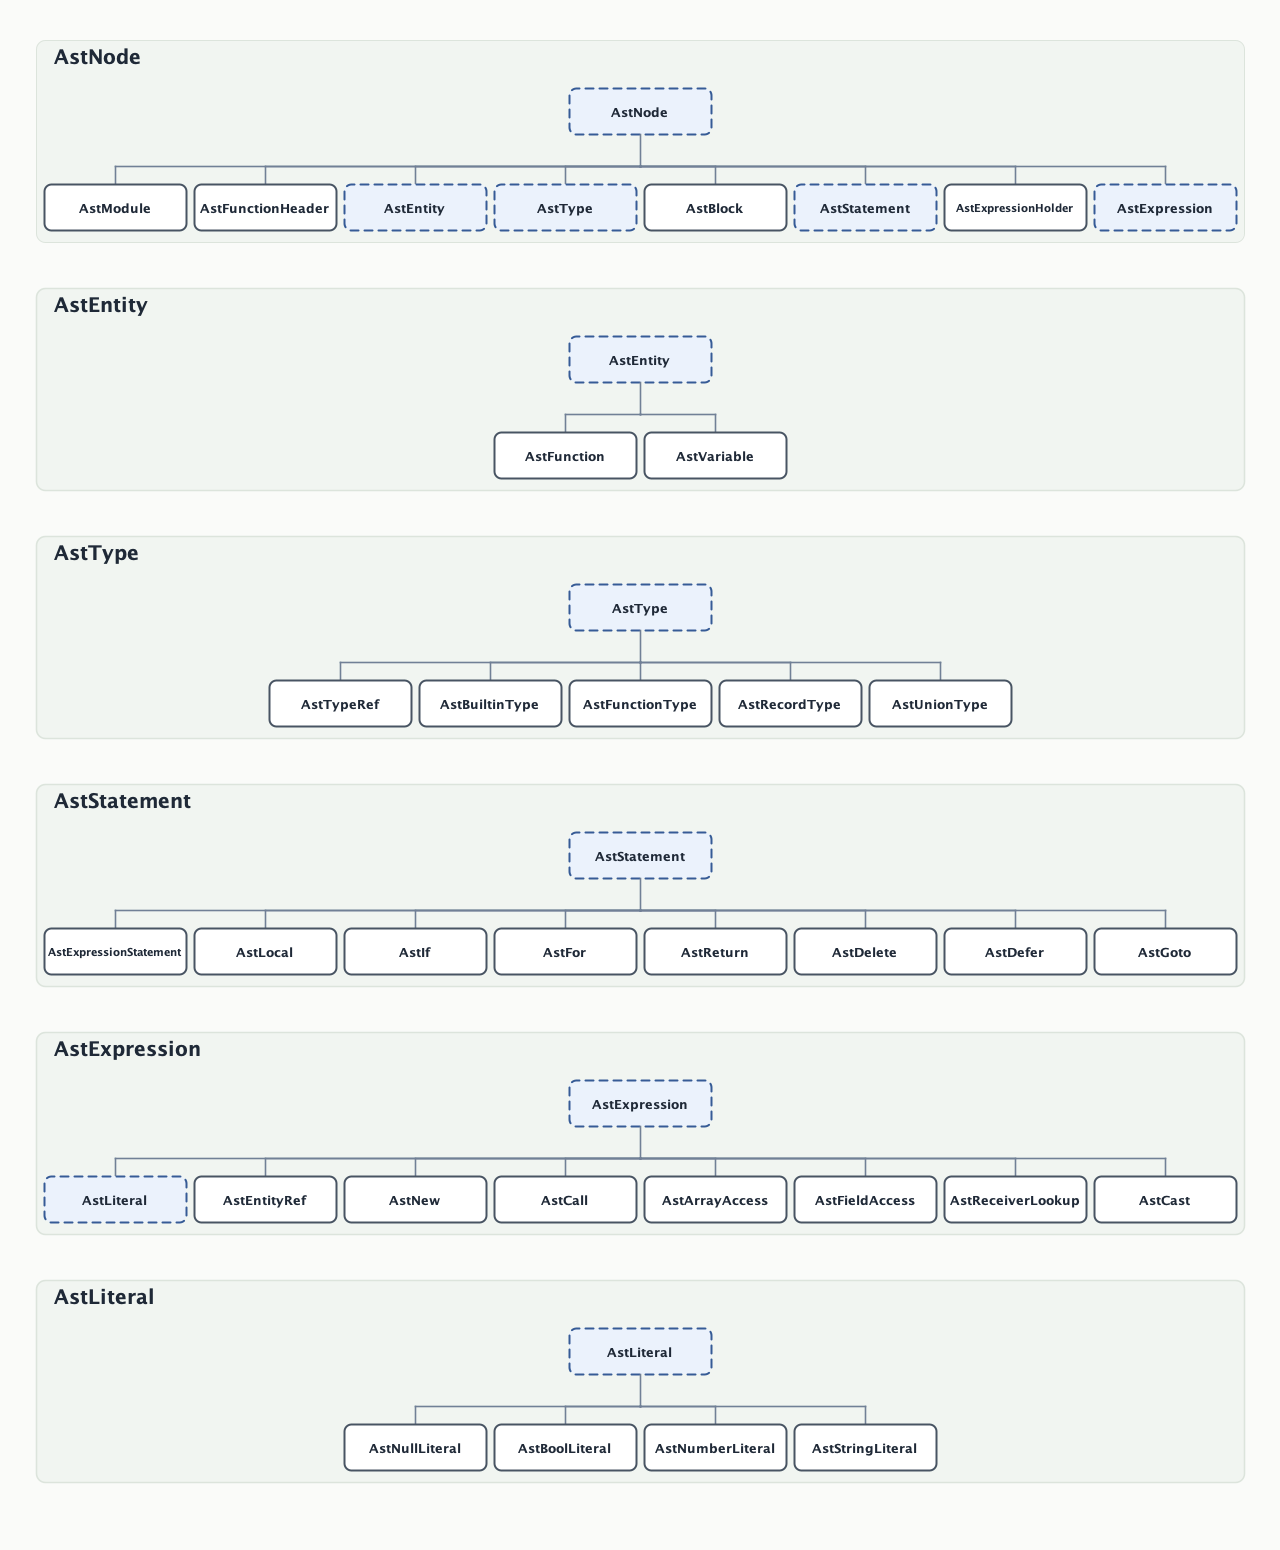
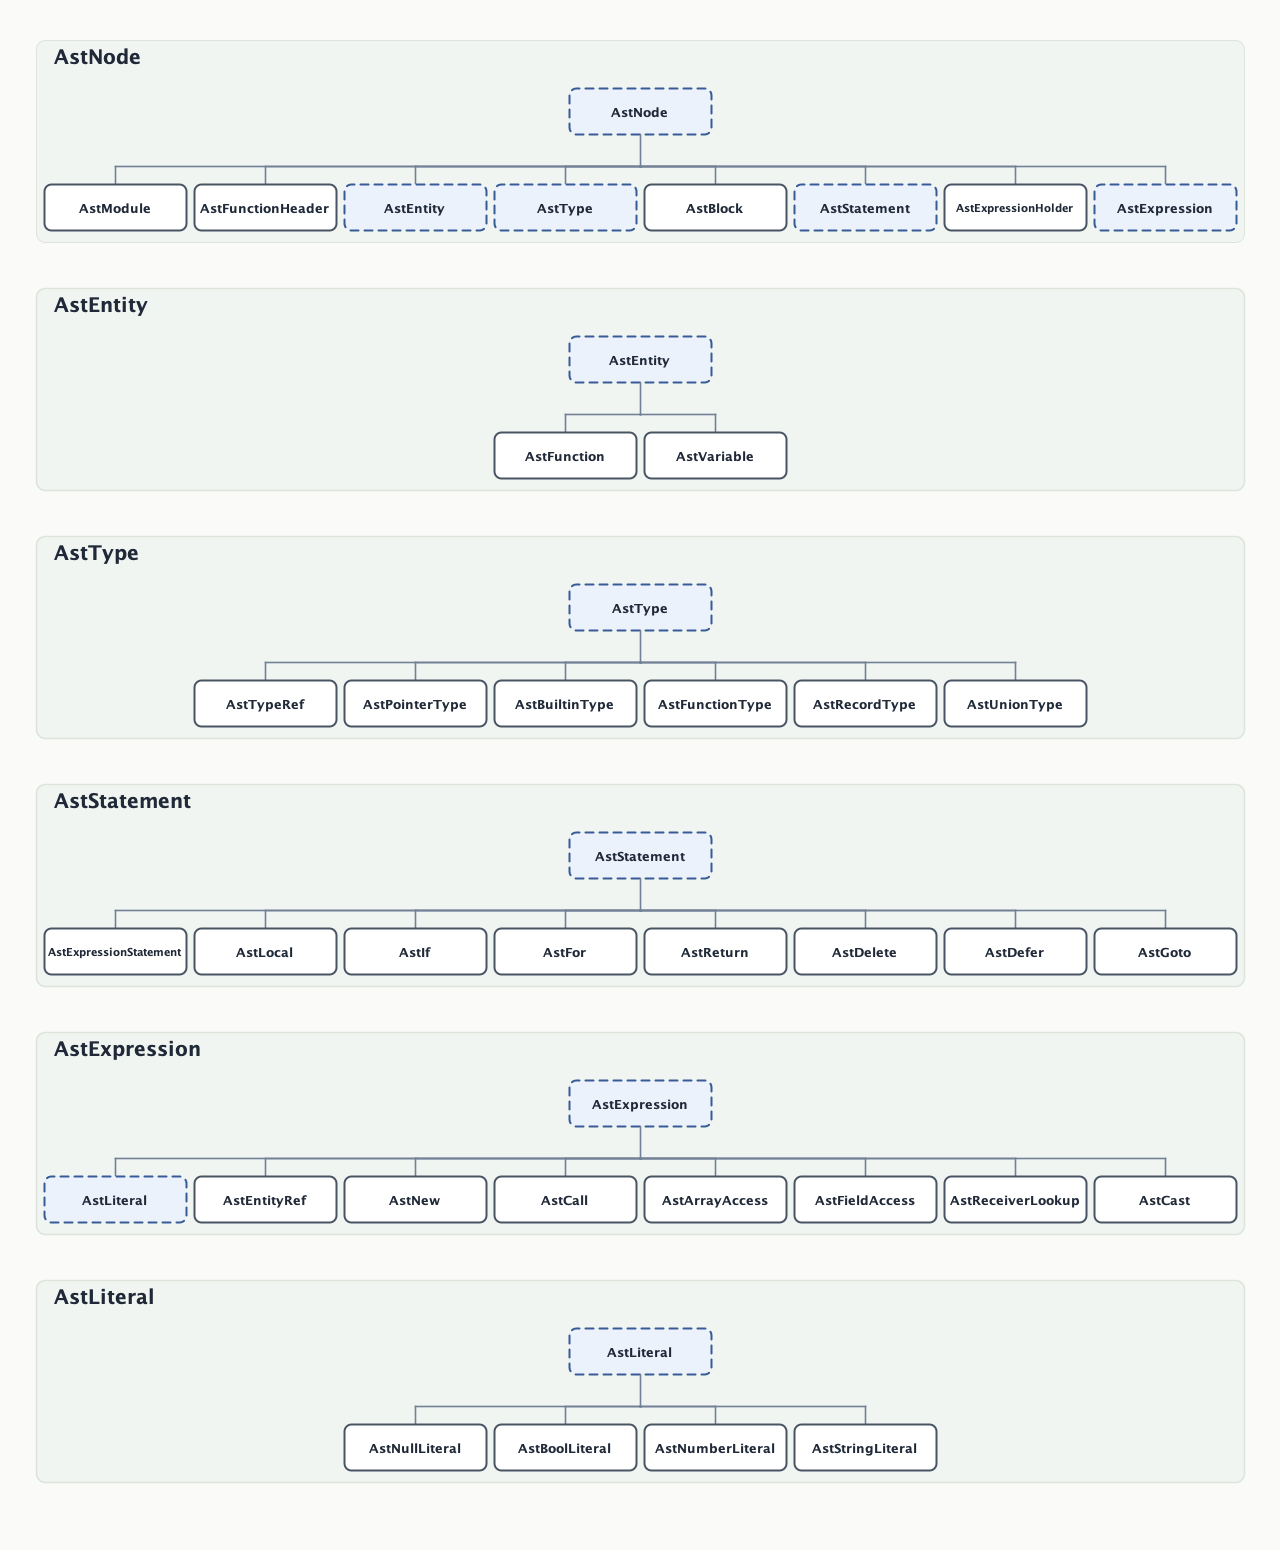
Add AstPointerType

Changed region(s): [[0.1875, 0.4335, 0.8438, 0.4645]]

diff --git a/src/main/java/com/github/idemura/cimple/compiler/ast/AstPointerType.java b/src/main/java/com/github/idemura/cimple/compiler/ast/AstPointerType.java
@@ -1,0 +1,46 @@
+package com.github.idemura.cimple.compiler.ast;
+
+import com.github.idemura.cimple.compiler.Identifier;
+
+public final class AstPointerType extends AstType {
+  private AstType baseType;
+
+  public AstPointerType(AstType baseType) {
+    this.baseType = baseType;
+  }
+
+  @Override
+  public void accept(AstVisitor visitor) {
+    visitor.visit(this);
+  }
+
+  @Override
+  public int hashCode() {
+    return baseType.hashCode();
+  }
+
+  @Override
+  public boolean equals(Object object) {
+    return this == object
+        || (object instanceof AstPointerType other && baseType.equals(other.baseType));
+  }
+
+  @Override
+  public Identifier name() {
+    var baseName = baseType.name();
+    return baseName.withEntity(baseName.entityName() + "*");
+  }
+
+  @Override
+  public void name(Identifier name) {
+    throw new UnsupportedOperationException();
+  }
+
+  public AstType baseType() {
+    return baseType;
+  }
+
+  public void baseType(AstType baseType) {
+    this.baseType = baseType;
+  }
+}

diff --git a/src/main/java/com/github/idemura/cimple/compiler/parser/Parser.java b/src/main/java/com/github/idemura/cimple/compiler/parser/Parser.java
@@ -28,6 +28,7 @@ import com.github.idemura.cimple.compiler.ast.AstLocal;
 import com.github.idemura.cimple.compiler.ast.AstModule;
 import com.github.idemura.cimple.compiler.ast.AstNew;
 import com.github.idemura.cimple.compiler.ast.AstNumberLiteral;
+import com.github.idemura.cimple.compiler.ast.AstPointerType;
 import com.github.idemura.cimple.compiler.ast.AstReceiverLookup;
 import com.github.idemura.cimple.compiler.ast.AstRecordType;
 import com.github.idemura.cimple.compiler.ast.AstReturn;
@@ -337,7 +338,7 @@ public class Parser {
     if (expr == null) {
       return null;
     }
-    while (tokenizer.current().is(OP_ADD) || tokenizer.current().is(OP_SUB)) {
+    while (tokenizer.current().is(PLUS) || tokenizer.current().is(MINUS)) {
       var operator = tokenizer.take();
       var m = parseMultiplicativeChain();
       if (m == null) {
@@ -357,9 +358,9 @@ public class Parser {
     if (expr == null) {
       return null;
     }
-    while (tokenizer.current().is(OP_MUL)
-        || tokenizer.current().is(OP_DIV)
-        || tokenizer.current().is(OP_MOD)) {
+    while (tokenizer.current().is(STAR)
+        || tokenizer.current().is(SLASH)
+        || tokenizer.current().is(PERCENT)) {
       var operator = tokenizer.take();
       var m = parseFieldArrayCallChain();
       if (m == null) {
@@ -533,13 +534,17 @@ public class Parser {
     return parameters;
   }
 
-  private AstTypeRef parseTypeRef() {
+  private AstType parseTypeRef() {
     var current = tokenizer.current();
     var ref = new AstTypeRef();
     ref.name(Identifier.ofType(current.value()));
     ref.location(current.location());
     tokenizer.step();
-    return ref;
+    AstType type = ref;
+    while (tokenizer.takeIf(STAR)) {
+      type = new AstPointerType(type);
+    }
+    return type;
   }
 
   private AstEntityRef parseOperator(Token token) {

diff --git a/src/test/java/com/github/idemura/cimple/compiler/parser/ParserTest.java b/src/test/java/com/github/idemura/cimple/compiler/parser/ParserTest.java
@@ -46,6 +46,8 @@ class ParserTest {
         var v0 int = 5;
         var v1 int;
         var v2 = 5;
+        var p int*;
+        var pp int**;
         const c0 int = 7;
         function f0() {}
         function f1(x int) {}
@@ -101,6 +103,18 @@ class ParserTest {
       var v = module.findVariable("v2");
       assertEquals(Identifier.ofEntity("v2"), v.name());
       assertNull(v.type());
+      assertTrue(v.getBit(AstVariable.MUTABLE));
+    }
+    {
+      var v = module.findVariable("p");
+      assertEquals(Identifier.ofEntity("p"), v.name());
+      assertEquals(pointerType(newTypeRef("int")), v.type());
+      assertTrue(v.getBit(AstVariable.MUTABLE));
+    }
+    {
+      var v = module.findVariable("pp");
+      assertEquals(Identifier.ofEntity("pp"), v.name());
+      assertEquals(pointerType(pointerType(newTypeRef("int"))), v.type());
       assertTrue(v.getBit(AstVariable.MUTABLE));
     }
     {

diff --git a/src/main/java/com/github/idemura/cimple/compiler/parser/TokenType.java b/src/main/java/com/github/idemura/cimple/compiler/parser/TokenType.java
@@ -17,11 +17,11 @@ public enum TokenType {
   COMMA(","),
   PERIOD("."),
   ASSIGN("="),
-  OP_ADD("+"),
-  OP_SUB("-"),
-  OP_MUL("*"),
-  OP_DIV("/"),
-  OP_MOD("%"),
+  PLUS("+"),
+  MINUS("-"),
+  STAR("*"),
+  SLASH("/"),
+  PERCENT("%"),
   CMP_EQ("=="),
   CMP_NE("!="),
   CMP_LT("<"),

diff --git a/src/main/java/com/github/idemura/cimple/compiler/parser/Tokenizer.java b/src/main/java/com/github/idemura/cimple/compiler/parser/Tokenizer.java
@@ -73,11 +73,11 @@ public class Tokenizer {
           case '.' -> tokens.add(take1CharToken(context, PERIOD));
           case '=' -> tokens.add(take1CharToken(context, ASSIGN));
           case ';' -> tokens.add(take1CharToken(context, SEMICOLON));
-          case '+' -> tokens.add(take1CharToken(context, OP_ADD));
-          case '-' -> tokens.add(take1CharToken(context, OP_SUB));
-          case '*' -> tokens.add(take1CharToken(context, OP_MUL));
-          case '/' -> tokens.add(take1CharToken(context, OP_DIV));
-          case '%' -> tokens.add(take1CharToken(context, OP_MOD));
+          case '+' -> tokens.add(take1CharToken(context, PLUS));
+          case '-' -> tokens.add(take1CharToken(context, MINUS));
+          case '*' -> tokens.add(take1CharToken(context, STAR));
+          case '/' -> tokens.add(take1CharToken(context, SLASH));
+          case '%' -> tokens.add(take1CharToken(context, PERCENT));
           case '<' -> tokens.add(take1CharToken(context, CMP_GT));
           case '>' -> tokens.add(take1CharToken(context, CMP_LT));
           case '"' -> tokens.add(takeString(context));

diff --git a/src/main/java/com/github/idemura/cimple/compiler/semantics/TypeResolutionVisitor.java b/src/main/java/com/github/idemura/cimple/compiler/semantics/TypeResolutionVisitor.java
@@ -9,6 +9,7 @@ import com.github.idemura.cimple.compiler.ast.AstFunctionHeader;
 import com.github.idemura.cimple.compiler.ast.AstNew;
 import com.github.idemura.cimple.compiler.ast.AstNullLiteral;
 import com.github.idemura.cimple.compiler.ast.AstNumberLiteral;
+import com.github.idemura.cimple.compiler.ast.AstPointerType;
 import com.github.idemura.cimple.compiler.ast.AstStringLiteral;
 import com.github.idemura.cimple.compiler.ast.AstType;
 import com.github.idemura.cimple.compiler.ast.AstTypeRef;
@@ -44,6 +45,11 @@ public class TypeResolutionVisitor extends AstVisitor {
   @Override
   protected void visit(AstTypeRef node) {
     throw new IllegalStateException("AstTypeRef must be replaced at this point");
+  }
+
+  protected void visit(AstPointerType node) {
+    node.baseType(resolveTypeRefSafe(node.baseType()));
+    super.visit(node);
   }
 
   protected void visit(AstUnionType node) {
@@ -91,6 +97,9 @@ public class TypeResolutionVisitor extends AstVisitor {
         return AstBuiltinType.VOID;
       }
       return resolvedType;
+    }
+    if (type instanceof AstPointerType pointerType) {
+      pointerType.baseType(resolveTypeRefSafe(pointerType.baseType()));
     }
     return type;
   }

diff --git a/src/main/java/com/github/idemura/cimple/compiler/ast/AstVisitor.java b/src/main/java/com/github/idemura/cimple/compiler/ast/AstVisitor.java
@@ -46,6 +46,14 @@ public abstract class AstVisitor {
 
   protected void visit(AstTypeRef node) {}
 
+  protected void visit(AstPointerType node) {
+    visitChildren(node);
+  }
+
+  protected void visitChildren(AstPointerType node) {
+    node.baseType().accept(this);
+  }
+
   protected void visit(AstBuiltinType node) {}
 
   protected void visit(AstFunctionType node) {

diff --git a/src/main/java/com/github/idemura/cimple/compiler/ast/AstType.java b/src/main/java/com/github/idemura/cimple/compiler/ast/AstType.java
@@ -3,7 +3,12 @@ package com.github.idemura.cimple.compiler.ast;
 import com.github.idemura.cimple.compiler.Identifier;
 
 public abstract sealed class AstType extends AstNode
-    permits AstTypeRef, AstBuiltinType, AstFunctionType, AstRecordType, AstUnionType {
+    permits AstTypeRef,
+        AstPointerType,
+        AstBuiltinType,
+        AstFunctionType,
+        AstRecordType,
+        AstUnionType {
   protected AstType() {}
 
   public abstract Identifier name();

diff --git a/src/test/java/com/github/idemura/cimple/compiler/ast/AstUtils.java b/src/test/java/com/github/idemura/cimple/compiler/ast/AstUtils.java
@@ -21,6 +21,10 @@ public final class AstUtils {
     return ref;
   }
 
+  public static AstPointerType pointerType(AstType baseType) {
+    return new AstPointerType(baseType);
+  }
+
   public static AstEntityRef newEntityRef(String name) {
     return newEntityRef(null, name);
   }